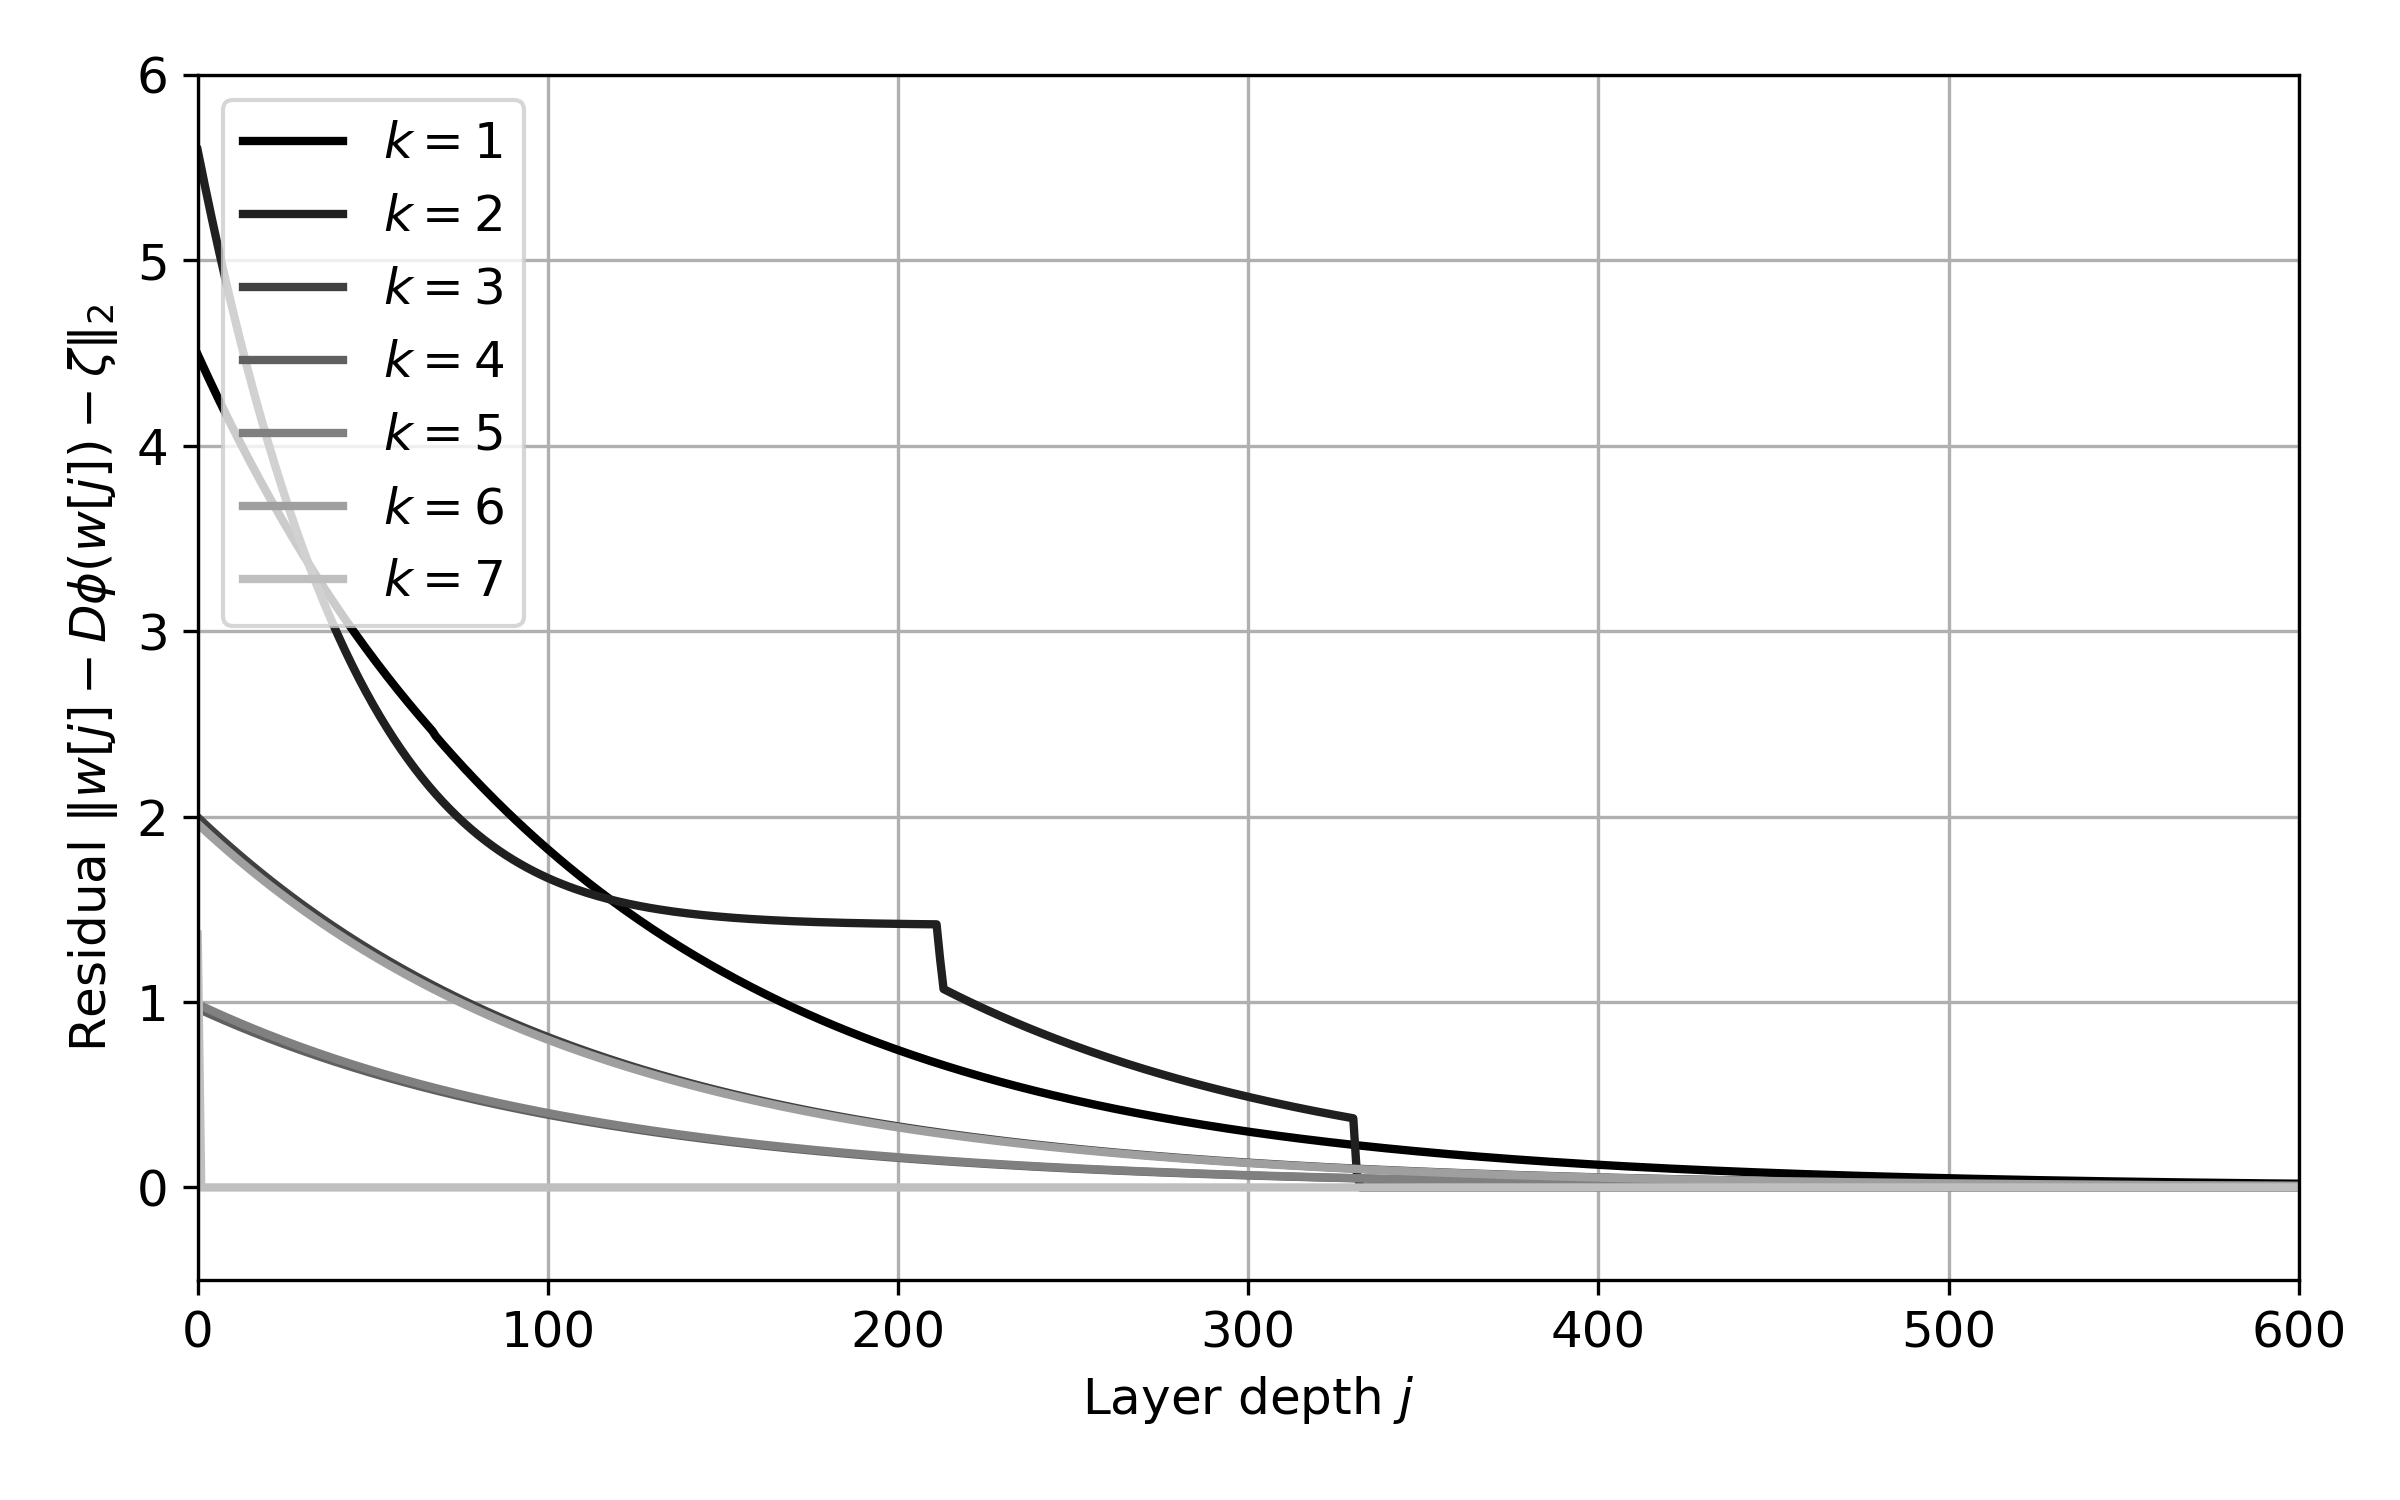
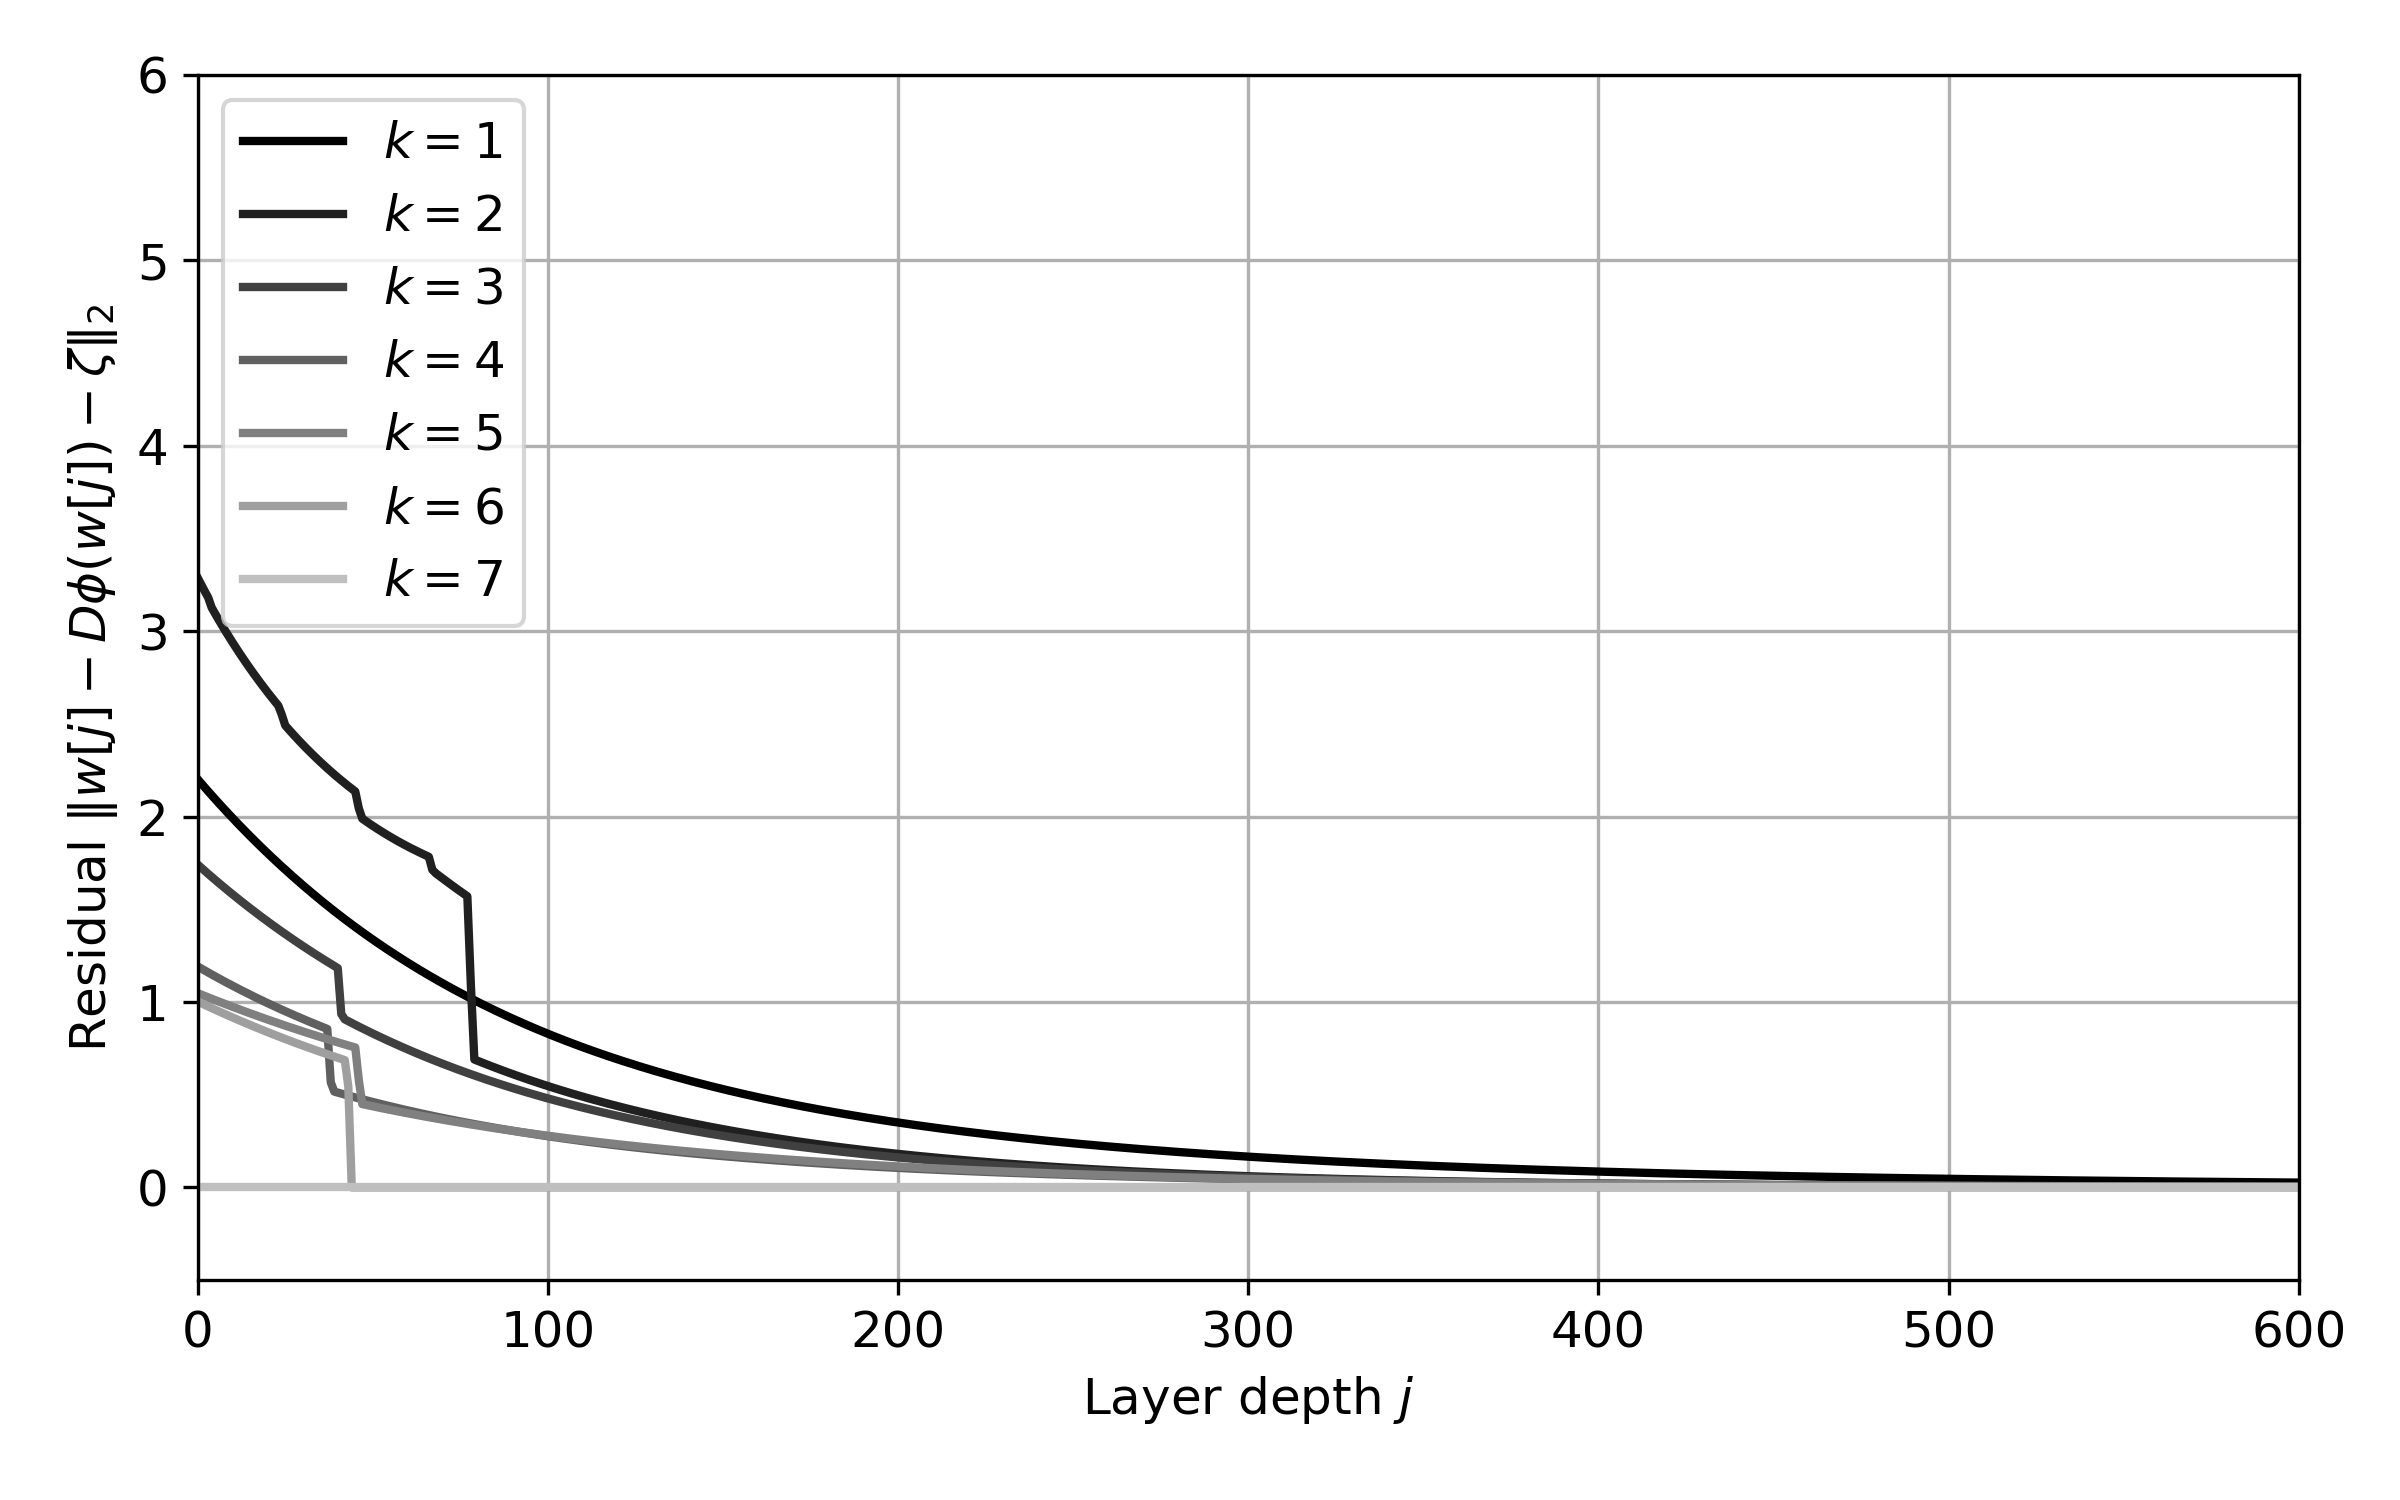
O código de drummond roda mesmo com o F correto, agora preciso colocar o meu no estilo do dele

diff --git a/MPC_to_NN/MPCvsNN - Drummond/run_sim correto.py b/MPC_to_NN/MPCvsNN - Drummond/run_sim correto.py
@@ -1,0 +1,203 @@
+import numpy as np
+import matplotlib.pyplot as plt
+import cvxpy as cp
+from scipy.linalg import block_diag
+import os
+
+output_dir = "MPC_to_NN/MPCvsNN - Drummond/output_figures"
+os.makedirs(output_dir, exist_ok=True)
+
+# MPC problem setup
+n = 10
+nx = 2 * n
+scaling = 1 * 1e0
+
+A = np.array([[4/3, -2/3], [1, 0]])
+B = np.array([[0], [1]])
+N = 2
+
+Rtilde = 1
+Ptilde = np.array([[7.1667, -4.2222], [-4.2222, 4.6852]])
+Qtilde = np.array([[1, -2/3], [-2/3, 3/22]])
+
+R = Rtilde
+P = Ptilde
+for j in range(n-1):
+    R = block_diag(R, Rtilde)
+    P = block_diag(Qtilde, P)
+
+My = np.zeros((N * n, n))
+Gtilde = np.array([[0.1], [-0.1]])
+G = Gtilde
+for i in range(n):
+    for j in range(i+1):
+        My[i*N:(i+1)*N, j] = (np.linalg.matrix_power(A, i-j) @ B).flatten()
+    if i < n-1:
+        G = block_diag(G, Gtilde)
+
+psi = np.block([[A]])
+for i in range(n-1):
+    psi = np.vstack((psi, psi[-N:] @ A))
+
+H = R + My.T @ P @ My
+F_add_quadprog = 1 * (psi.T @ P @ My).T
+F_add = F_add_quadprog * 1
+S = G @ np.linalg.inv(H) @ F_add
+
+w = np.ones((2 * n, 1)) * scaling
+
+D = np.eye(nx) - G @ np.linalg.inv(H) @ G.T
+
+b_qp = w
+A_qp = G
+
+# Simulate the MPC policy
+K = 25
+
+x0 = -np.array([[1], [1]]) * 2e2
+xk = x0.copy()
+u_mpc = np.zeros(K)
+u_YALMIP = np.zeros((n, K))
+xk_store_MPC = np.zeros((N, K))
+
+for j in range(K):
+    u = cp.Variable((n, 1))
+    f_yalmip = xk.T @ (2 * (psi.T @ P @ My))
+    cost = cp.quad_form(u, H) + 1e0 * f_yalmip @ u
+    constraints = [A_qp @ u <= b_qp]
+    prob = cp.Problem(cp.Minimize(cost), constraints)
+    prob.solve()
+    
+    u_YALMIP[:, j:j+1] = u.value
+    
+    u_mpc[j] = u_YALMIP[0, j]
+    xk = A @ xk + B * u_mpc[j]
+    xk_store_MPC[:, j:j+1] = xk
+
+# Simulate the implicit neural network policy
+iters = 1000  # number of iterations of the NN unraveling
+y_store = np.zeros((nx, iters))
+phi_store = np.zeros((nx, iters))
+res_store = np.zeros((nx, iters))
+res_norm = np.zeros(iters)
+sign_store = np.ones((nx, iters))
+
+xk = x0.copy()
+c_MPC = 1 * S @ xk + 1 * w  # initialize the implicit NN
+zeta = -1 * c_MPC
+
+y0 = np.zeros((nx, 1))
+phi = np.zeros((nx, 1))
+for g in range(nx):
+    if y0[g] >= 0:
+        phi[g] = y0[g]
+    else:
+        phi[g] = 0
+
+residual = y0 - D @ phi - zeta
+K_gain = 0
+y = y0.copy()
+
+u_nn = np.zeros(K)
+u_ramp = np.zeros((n, K))
+xk_store_nn = np.zeros((N, K))
+res_norm_store = np.zeros((K, iters))
+
+for k in range(K):
+    for j in range(iters):  # unravel the implicit NN into an explicit one
+        c_MPC = 1 * S @ xk + 1 * w  # define the implicit NN weights
+        zeta = -1 * c_MPC
+        y_store[:, j:j+1] = y
+        phi_store[:, j:j+1] = phi
+        res_store[:, j:j+1] = residual
+        ykp1 = D @ phi + zeta + 1 * K_gain * residual
+        
+        phi = np.zeros((nx, 1))
+        for g in range(nx):
+            if ykp1[g] > 0:
+                phi[g] = ykp1[g]
+            else:
+                phi[g] = 0
+                sign_store[g, j] = -1
+        
+        y = ykp1.copy()
+        residual = y - D @ phi - zeta  # compute residuals
+        res_norm[j] = np.linalg.norm(residual)
+        res_norm_store[k, j] = np.linalg.norm(y - D @ phi - zeta)
+    
+    y_ramp = ykp1.copy()
+    u_ramp[:, k:k+1] = -np.linalg.inv(H) @ (F_add @ xk + G.T @ phi)  # get the output
+    
+    u_nn[k] = u_ramp[0, k]  # the step-ahead control action
+    xk = A @ xk + B * u_nn[k]  # implement the state update
+    xk_store_nn[:, k:k+1] = xk
+
+combined = np.vstack([xk_store_nn, xk_store_MPC])  # compare the results
+
+# Plot the results
+plt.rcParams.update({'font.size': 12})
+
+# Figure 1: x1 state
+plt.figure(figsize=(8, 5))
+plt.plot(range(K), xk_store_nn[0, :], '-xk', color=[0.2, 0.2, 0.2], linewidth=2, markersize=8)
+plt.plot(range(K), xk_store_MPC[0, :], '+k', color=[0.6, 0.6, 0.6], linewidth=2, markersize=8)
+plt.grid(True)
+plt.xlabel('Time instant $k$')
+plt.ylabel('$x_1[k]$')
+plt.legend(['Implicit NN controller', 'MPC Controller'], loc='lower left')
+plt.tight_layout()
+plt.savefig(os.path.join(output_dir, 'x1_state.png'), dpi=300)
+plt.close()
+
+# Figure 2: x2 state
+plt.figure(figsize=(8, 5))
+plt.plot(range(K), xk_store_nn[1, :], '-xk', color=[0.2, 0.2, 0.2], linewidth=2, markersize=8)
+plt.plot(range(K), xk_store_MPC[1, :], '+k', color=[0.6, 0.6, 0.6], linewidth=2, markersize=8)
+plt.grid(True)
+plt.xlabel('Time instant $k$')
+plt.ylabel('$x_2[k]$')
+plt.legend(['Implicit NN controller', 'MPC Controller'], loc='lower left')
+plt.tight_layout()
+plt.savefig(os.path.join(output_dir, 'x2_state.png'), dpi=300)
+plt.close()
+
+# Figure 3: Control input
+plt.figure(figsize=(8, 5))
+plt.plot(range(K), u_ramp[0, :], '-xk', color=[0.2, 0.2, 0.2], linewidth=2, markersize=8)
+plt.plot(range(K), u_mpc, '+k', color=[0.6, 0.6, 0.6], linewidth=2, markersize=8)
+plt.grid(True)
+plt.xlabel('Time instant $k$')
+plt.ylabel('Input $u[k]$')
+plt.legend(['Implicit NN controller', 'MPC Controller'], loc='lower left')
+plt.tight_layout()
+plt.savefig(os.path.join(output_dir, 'control_input.png'), dpi=300)
+plt.close()
+
+# Figure 4: Residual norms for first few time steps
+plt.figure(figsize=(8, 5))
+set_K = 7
+for j in range(set_K):
+    plt.plot(range(iters), res_norm_store[j, :], '-k', color=[j/(set_K+1)]*3, linewidth=2)
+plt.grid(True)
+plt.xlabel('Layer depth $j$')
+plt.ylabel('Residual $\|w[j]-D\phi(w[j])-\zeta\|_2$')
+plt.legend(['$k = 1$', '$k = 2$', '$k= 3$', '$k= 4$', '$k = 5$', '$k = 6$', '$k = 7$'], loc='upper left')
+plt.xlim([0, 600])
+plt.ylim([-0.5, 6])
+plt.tight_layout()
+plt.savefig(os.path.join(output_dir, 'residual_norms.png'), dpi=300)
+plt.close()
+
+# Figure 5: Surface plot of residuals
+X, Y = np.meshgrid(range(iters), range(K))
+fig = plt.figure(figsize=(10, 6))
+ax = fig.add_subplot(111, projection='3d')
+ax.plot_surface(X, Y, res_norm_store, cmap='viridis', edgecolor='none')
+ax.set_xlabel('Layer depth $j$')
+ax.set_ylabel('Time instant $k$')
+ax.set_zlabel('Residual norm')
+plt.tight_layout()
+plt.savefig(os.path.join(output_dir, 'residual_surface.png'), dpi=300)
+plt.close()
+
+plt.show()
